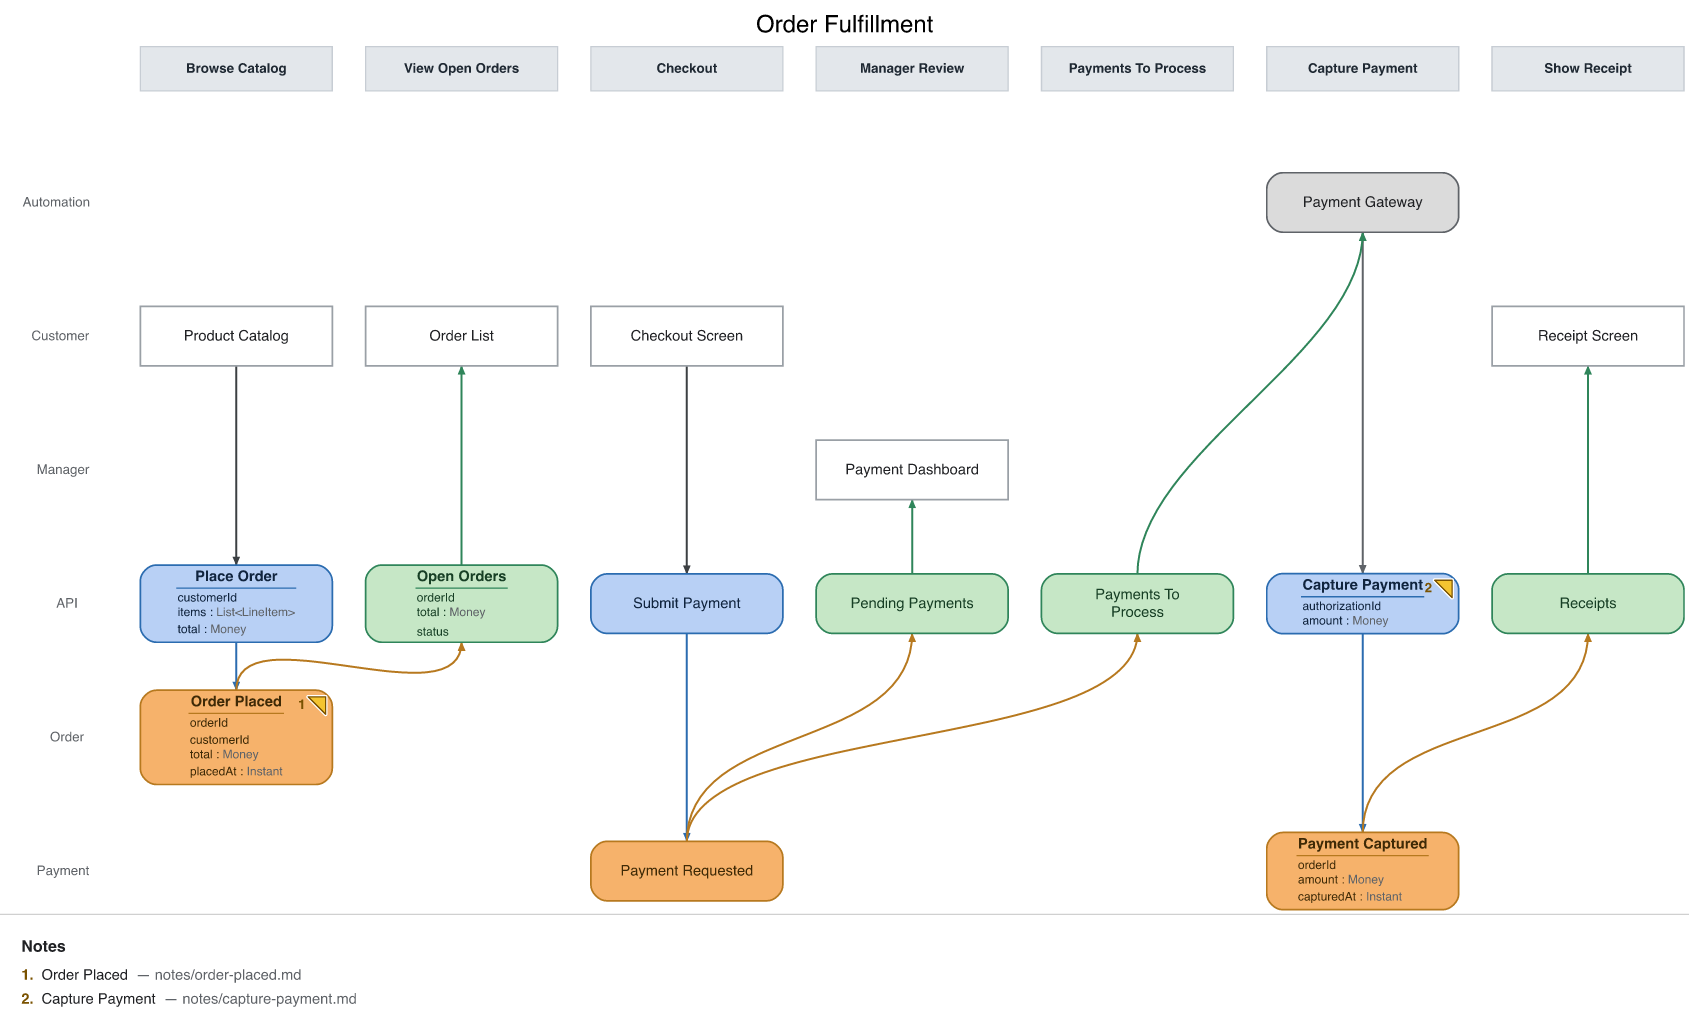
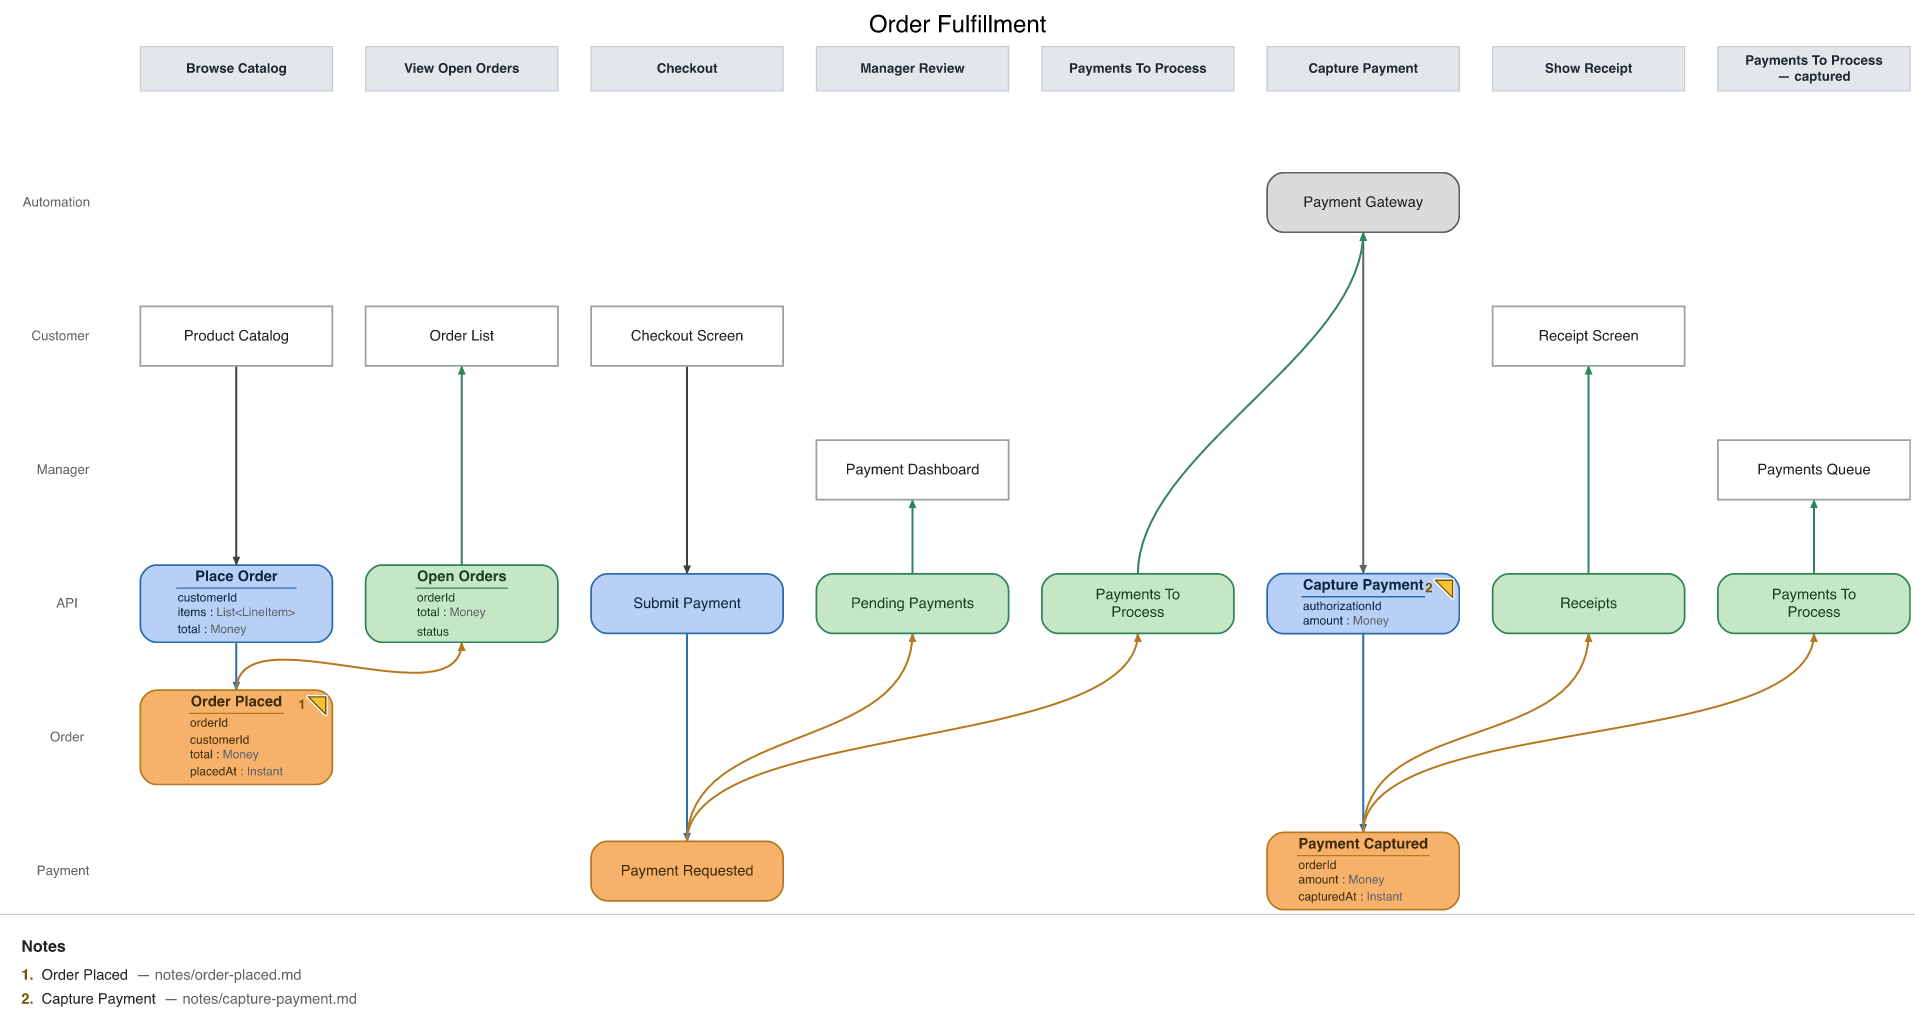
GH #518: automation docs and skills — the outcome event must clear the to-do list (#521)
State clearing the list as a rule of the Automation pattern, separate from
"every event needs a reader", and say which clause carries it: a later
`view <List> again` instance for the automation's own outcome events,
`updates from` for housekeeping events before the list's slice. The
tutorial model and the fulfilment example now clear their lists.

diff --git a/docs/patterns.md b/docs/patterns.md
@@ -195,8 +195,30 @@ directly, only a read model does. A `ui` belongs in the slice that displays the 
 instead. A `ui` left in the reaction's slice renders disconnected, with no edge, and
 `em validate` warns on it too.
 
-The third slice is the State View that reads `Payment Captured` — here it's the same to-do
-list, one payment shorter. Without it the event is unread and `em validate` warns.
+### Clearing the list
+
+**Every outcome event that finishes the work must be read back by the to-do list it came from.**
+The third slice above does that: `view Payments To Process again from "Payment Captured"` is the
+same list, one payment shorter. Without it the captured payment stays on the list and the
+processor picks it up again.
+
+This is a rule of the Automation pattern, separate from "every event needs a reader". Any view
+satisfies the reader rule: a `Receipts` view reading `Payment Captured` silences the unread-event
+warning and leaves `Payments To Process` exactly as long as before. `em validate` does not check
+that the list is cleared, so check it by eye: for each processor, each outcome event of its
+command feeds a later instance of the view it watches.
+
+Which clause carries the removal depends on when the event happens:
+
+- **The automation's own outcome events** happen after the list's slice, so they go on a later
+  `view <List> again from "<Outcome>"` instance. Writing them as `updates from` on the first
+  instance is an error (`time flows left to right`).
+- **Housekeeping events that happen before the list's slice** (an order cancelled before it is
+  fulfilled, an address corrected) go in `updates from` on the instance that follows them. See
+  [dsl.md](dsl.md#updates-from).
+
+A processor can see an item twice before the list catches up. Say in the slice doc what the
+command does then: usually a no-op, stated as an invariant with its own scenario.
 
 ### Outcomes of one reaction: one slice
 
@@ -226,19 +248,20 @@ slice "Fulfil Order" {
   event Fulfilment Succeeded | Fulfilment Failed | Fulfilment Retry Scheduled @Fulfilment
 }
 
-slice "Orders To Fulfil — retry" {
-  view Orders To Fulfil again from "Fulfilment Retry Scheduled"
-  ui Retry Queue @Ops
+slice "Orders To Fulfil — after an attempt" {
+  view Orders To Fulfil again from "Fulfilment Succeeded", "Fulfilment Failed", "Fulfilment Retry Scheduled"
+  ui Fulfilment Queue @Ops
 }
 
 slice "Fulfilment Status" {
-  view Fulfilment Status from "Fulfilment Succeeded", "Fulfilment Failed", "Fulfilment Retry Scheduled"
+  view Fulfilment Status from "Order Paid", "Fulfilment Succeeded", "Fulfilment Failed", "Fulfilment Retry Scheduled"
   ui Fulfilment Board @Ops
 }
 ```
 
-The retry fires because the processor's to-do list reads the retry-scheduled event: the view
-reappears with `view Orders To Fulfil again from "Fulfilment Retry Scheduled"`, so the **same**
+The to-do list reads all three outcomes back ([Clearing the list](#clearing-the-list)).
+`Fulfilment Succeeded` and `Fulfilment Failed` finish the work, so each takes the order off the
+list. `Fulfilment Retry Scheduled` keeps it there with its next attempt time, so the **same**
 reaction picks the order up again. Add a new slice only when a **different actor or a different
 trigger** is involved: a human override of a failed fulfilment, or a scheduled timer that is
 itself modelled as a reaction on a different view, has its own trigger and so its own slice

diff --git a/.claude/skills/event-modeling-shared/reference/methodology.md b/.claude/skills/event-modeling-shared/reference/methodology.md
@@ -129,7 +129,7 @@ command** — it never records an event directly.
     event E @Context
   }
   slice "Todo — done" {
-    view Todo again from "E"   # every event needs a reader; here it clears the to-do list
+    view Todo again from "E"   # clears the to-do list: the outcome is read back by the SAME view
     ui Work Board @Persona     # ...and every read model needs a consumer
   }
   ```
@@ -137,13 +137,23 @@ command** — it never records an event directly.
   happens to live in the processor's own slice now because the command does. A processor with no
   command in its slice (and no explicit arrow to one) is a validation warning: a decision the
   system never acts on. Forgetting the third slice leaves `E` unread, which is also a warning.
+- **Clearing the list is a rule of the pattern.** Every outcome event that finishes the work is
+  read back by a later `view <List> again from "<Outcome>"` instance of the same to-do list, or
+  the processor picks the item up again. This is separate from "every event needs a reader": a
+  different view reading the outcome (`Receipts`, a status board) satisfies the reader rule and
+  leaves the list uncleared, and `em validate` does not catch it. The automation's own outcome
+  events always go on a later `again` instance, never in `updates from` on the first instance —
+  they happen after the list's slice, so that is a `time flows left to right` error.
+  `updates from` is for housekeeping events that happen before the list's slice. Ask what the
+  command does when the processor sees an item twice before the list updates, and record the
+  answer as an invariant with a scenario.
 - **Naming:** name the read model after the pending work — `Payments To Process`,
   `Orders To Fulfill`, `Pending Approvals` — never after the triggering event. The event is what
   happened; the view is what's left to do. Reusing the event's name also collides in the shared
   element namespace: `from` references then resolve by element kind, and `em validate` flags the
   duplicated name.
 - Socratic prompts: *"What should happen without a human? What condition triggers it? What work
-  list does the processor watch? What command does it fire? What if it fails or retries?"*
+  list does the processor watch? What command does it fire? Which event takes the item off the list? What if it fails or retries?"*
 - **Outcomes are events of the SAME slice.** Success, failure, retry-scheduled and timeout are
   outcome events of the one command (`Fulfilment Succeeded` / `Fulfilment Failed` / `Fulfilment
   Retry Scheduled`), not sibling slices per control-flow branch (1.18.0 adds the

diff --git a/plugin/shared/reference/methodology.md b/plugin/shared/reference/methodology.md
@@ -130,7 +130,7 @@ command** — it never records an event directly.
     event E @Context
   }
   slice "Todo — done" {
-    view Todo again from "E"   # every event needs a reader; here it clears the to-do list
+    view Todo again from "E"   # clears the to-do list: the outcome is read back by the SAME view
     ui Work Board @Persona     # ...and every read model needs a consumer
   }
   ```
@@ -138,13 +138,23 @@ command** — it never records an event directly.
   happens to live in the processor's own slice now because the command does. A processor with no
   command in its slice (and no explicit arrow to one) is a validation warning: a decision the
   system never acts on. Forgetting the third slice leaves `E` unread, which is also a warning.
+- **Clearing the list is a rule of the pattern.** Every outcome event that finishes the work is
+  read back by a later `view <List> again from "<Outcome>"` instance of the same to-do list, or
+  the processor picks the item up again. This is separate from "every event needs a reader": a
+  different view reading the outcome (`Receipts`, a status board) satisfies the reader rule and
+  leaves the list uncleared, and `em validate` does not catch it. The automation's own outcome
+  events always go on a later `again` instance, never in `updates from` on the first instance —
+  they happen after the list's slice, so that is a `time flows left to right` error.
+  `updates from` is for housekeeping events that happen before the list's slice. Ask what the
+  command does when the processor sees an item twice before the list updates, and record the
+  answer as an invariant with a scenario.
 - **Naming:** name the read model after the pending work — `Payments To Process`,
   `Orders To Fulfill`, `Pending Approvals` — never after the triggering event. The event is what
   happened; the view is what's left to do. Reusing the event's name also collides in the shared
   element namespace: `from` references then resolve by element kind, and `em validate` flags the
   duplicated name.
 - Socratic prompts: *"What should happen without a human? What condition triggers it? What work
-  list does the processor watch? What command does it fire? What if it fails or retries?"*
+  list does the processor watch? What command does it fire? Which event takes the item off the list? What if it fails or retries?"*
 - **Outcomes are events of the SAME slice.** Success, failure, retry-scheduled and timeout are
   outcome events of the one command (`Fulfilment Succeeded` / `Fulfilment Failed` / `Fulfilment
   Retry Scheduled`), not sibling slices per control-flow branch (1.18.0 adds the

diff --git a/examples/order-fulfillment/README.md b/examples/order-fulfillment/README.md
@@ -3,7 +3,7 @@
 A worked sample project for `em` — a real, complete project directory (not just a bare
 `.em` file) walking through the tool end to end. The business process itself is
 deliberately simple: a customer browses a catalog, places an order, checks out, the system
-automatically captures payment from a gateway, and a receipt appears. Seven slices, three of
+automatically captures payment from a gateway, and a receipt appears. Eight slices, three of
 the four Event Modeling patterns (State Change, State View, Automation — see
 [docs/patterns.md](https://github.com/milehimikey/em/blob/main/docs/patterns.md) for the
 fourth, Translation). See [docs/tutorial.md](https://github.com/milehimikey/em/blob/main/docs/tutorial.md)
@@ -19,9 +19,9 @@ than just reading the model:
 2. **The model file**, `order-fulfillment.em` — see `tag`/`renamed from` in
    [examples/event-tags.em](../event-tags.em)/[examples/renames.em](../renames.em) for two
    DSL features this particular model doesn't happen to use.
-3. **The slice docs**, `slices/*.md` — only 4 of the 7 slices are documented here
+3. **The slice docs**, `slices/*.md` — only 4 of the 8 slices are documented here
    (**Browse Catalog**, **Checkout**, **View Open Orders**, **Capture Payment** — two State
-   Changes plus one of each remaining pattern), not all 7. Notice their statuses differ on
+   Changes plus one of each remaining pattern), not all 8. Notice their statuses differ on
    purpose: `browse-catalog` and `checkout` are `ready-to-implement` with every Open
    Question resolved (`checkout` has none to begin with); `view-open-orders` and
    `capture-payment` are only `reviewed`, each with a real, unresolved Open Question the doc
@@ -101,6 +101,7 @@ never connected to one another.
 | 5 | Payments To Process | State View | no doc yet | — | — | — | — | — | — | — |
 | 6 | Capture Payment | Automation | reviewed | — | — | — | — | — | — | [slices/capture-payment.md](slices/capture-payment.md) |
 | 7 | Show Receipt | State View | no doc yet | — | — | — | — | — | — | — |
+| 8 | Payments To Process — captured | State View | continuation of `payments-to-process` | — | — | — | — | — | — | — |
 <!-- GENERATED:slices:end -->
 
 ## Status

diff --git a/docs/tutorial.md b/docs/tutorial.md
@@ -9,7 +9,7 @@ fields, linked notes, and open questions. Budget about twenty minutes.
 
 ![The finished order-fulfillment event model](../examples/order-fulfillment.svg)
 
-Seven slices telling one story: a customer places an order, checks out, a payment gateway
+Eight slices telling one story: a customer places an order, checks out, a payment gateway
 captures the payment automatically, and a receipt appears. It exercises three of the
 [four patterns](patterns.md) — State Change, State View, and Automation. (The fourth,
 Translation, works the same way as Automation; patterns.md covers it.)
@@ -207,7 +207,23 @@ slice "Show Receipt" {
 }
 ```
 
-Seven slices. The whole story now reads left to right across the diagram, and
+The warning is gone, but the automation is not finished. The captured payment is still on
+"Payments To Process", so the gateway would pick it up again. The receipt reads the event; it
+does not take anything off the list. The list itself has to read "Payment Captured", in a later
+instance of the same view:
+
+```em
+slice "Payments To Process — captured" {
+  view Payments To Process again from "Payment Captured"
+  ui Payments Queue @Manager
+}
+```
+
+`again` says this is the same read model, further along the timeline: the list as it stands once
+the payment is captured, one payment shorter. Every automation needs this step, and `em validate`
+does not ask for it, because the receipt already satisfied "every event needs a read model".
+
+Eight slices. The whole story now reads left to right across the diagram, and
 `em validate` has nothing to say about it.
 
 ## 7. Add fields
@@ -373,6 +389,11 @@ slice "Capture Payment" {
 slice "Show Receipt" {
   view Receipts from "Payment Captured"
   ui Receipt Screen @Customer
+}
+
+slice "Payments To Process — captured" {
+  view Payments To Process again from "Payment Captured"
+  ui Payments Queue @Manager
 }
 ```
 

diff --git a/.claude/skills/event-modeling-shared/templates/slice.md b/.claude/skills/event-modeling-shared/templates/slice.md
@@ -123,7 +123,9 @@ originating ticket/conversation link here if one exists.}}
 read model and the triggering condition. For translations, state the trigger form: externally
 triggered (the external system/source feeding us) or internally triggered (the read model whose
 state we react to). Either way, name the command this reaction triggers — reactions never record
-an event directly.}}
+an event directly. For automations, also say what the command does when the processor sees the
+same item twice before the to-do list updates (usually a no-op: give it an invariant and a
+scenario below).}}
 
 ## Command / Input
 <!-- GENERATED region (MIL-266): the table between the markers is written from the model —
@@ -184,6 +186,7 @@ an event directly.}}
 | {{field}} | {{Type}} | {{which event field it's copied from, or `Derived: <rule>`}} |
 <!-- GENERATED:em-slice-view:end -->
 - **Consumed by:** {{which UI screen (or API-caller persona), or reaction}}
+- **What removes a row:** {{the event(s) that take a row off this view, or "nothing — rows are kept". For a to-do list a processor watches: the processor's outcome event(s), read by a later `view <List> again` instance}}
 <!-- "Consumed by" is required, not optional. A read model nothing displays or watches is
      information projected out of the system and then dropped, and `em validate` warns. Every
      instance of a repeated view needs its own consumer, not just the last one. -->

diff --git a/plugin/shared/templates/slice.md b/plugin/shared/templates/slice.md
@@ -124,7 +124,9 @@ originating ticket/conversation link here if one exists.}}
 read model and the triggering condition. For translations, state the trigger form: externally
 triggered (the external system/source feeding us) or internally triggered (the read model whose
 state we react to). Either way, name the command this reaction triggers — reactions never record
-an event directly.}}
+an event directly. For automations, also say what the command does when the processor sees the
+same item twice before the to-do list updates (usually a no-op: give it an invariant and a
+scenario below).}}
 
 ## Command / Input
 <!-- GENERATED region (MIL-266): the table between the markers is written from the model —
@@ -185,6 +187,7 @@ an event directly.}}
 | {{field}} | {{Type}} | {{which event field it's copied from, or `Derived: <rule>`}} |
 <!-- GENERATED:em-slice-view:end -->
 - **Consumed by:** {{which UI screen (or API-caller persona), or reaction}}
+- **What removes a row:** {{the event(s) that take a row off this view, or "nothing — rows are kept". For a to-do list a processor watches: the processor's outcome event(s), read by a later `view <List> again` instance}}
 <!-- "Consumed by" is required, not optional. A read model nothing displays or watches is
      information projected out of the system and then dropped, and `em validate` warns. Every
      instance of a repeated view needs its own consumer, not just the last one. -->

diff --git a/plugin/skills/design/SKILL.md b/plugin/skills/design/SKILL.md
@@ -102,7 +102,14 @@ Goal: a structurally complete, **validated** model with correct patterns and swi
    **trigger / housekeeping split** on what is left (*which event is the reason this row appears?*
    that one stays in `from`; every event that only keeps a row current or removes it moves to
    `updates from` — the view still reads it, the diagram no longer draws it; a to-do list with more
-   than one or two inbound arrows is missing this split), the **continuation check** per `view X
+   than one or two inbound arrows is missing this split; one exception: an automation's own
+   outcome event happens after its to-do list's slice, so it goes on a later `view <List> again
+   from "<Outcome>"` instance, and `updates from` there is a `time flows left to right` error),
+   the **list-cleared check** per processor (does every outcome event that finishes the work feed
+   a later instance of the view the processor watches? a different view reading the outcome does
+   not clear the list, and no lint catches it — see
+   `${CLAUDE_PLUGIN_ROOT}/shared/reference/methodology.md`, "Clearing the list"), the
+   **continuation check** per `view X
    again` (it names only the events that changed the view since the previous instance, never the
    first instance's list again), and the
    **conditional-invariant signal** (invariants or fields that apply only "if `<field>` is set"

diff --git a/.claude/skills/event-modeling-design/SKILL.md b/.claude/skills/event-modeling-design/SKILL.md
@@ -101,7 +101,14 @@ Goal: a structurally complete, **validated** model with correct patterns and swi
    **trigger / housekeeping split** on what is left (*which event is the reason this row appears?*
    that one stays in `from`; every event that only keeps a row current or removes it moves to
    `updates from` — the view still reads it, the diagram no longer draws it; a to-do list with more
-   than one or two inbound arrows is missing this split), the **continuation check** per `view X
+   than one or two inbound arrows is missing this split; one exception: an automation's own
+   outcome event happens after its to-do list's slice, so it goes on a later `view <List> again
+   from "<Outcome>"` instance, and `updates from` there is a `time flows left to right` error),
+   the **list-cleared check** per processor (does every outcome event that finishes the work feed
+   a later instance of the view the processor watches? a different view reading the outcome does
+   not clear the list, and no lint catches it — see
+   `../event-modeling-shared/reference/methodology.md`, "Clearing the list"), the
+   **continuation check** per `view X
    again` (it names only the events that changed the view since the previous instance, never the
    first instance's list again), and the
    **conditional-invariant signal** (invariants or fields that apply only "if `<field>` is set"

diff --git a/docs/dsl.md b/docs/dsl.md
@@ -205,6 +205,12 @@ view Overdue Loans To Notify
   same shape as `from`; `from` keeps the union. The resolved connection is in `model.edges`
   with `source: "updates-from"`.
 
+`updates from` only takes events that happen **before** the view's slice. An automation's own
+outcome event happens after the to-do list the processor watches, so the list reads it on a later
+`view <List> again from "<Outcome>"` instance instead; naming it in `updates from` on the first
+instance is a `time flows left to right` error. See
+[patterns.md](patterns.md#clearing-the-list).
+
 ### One event recorded by several commands
 
 Two commands may record the same event. Declare the event in each slice, bare, with the same
